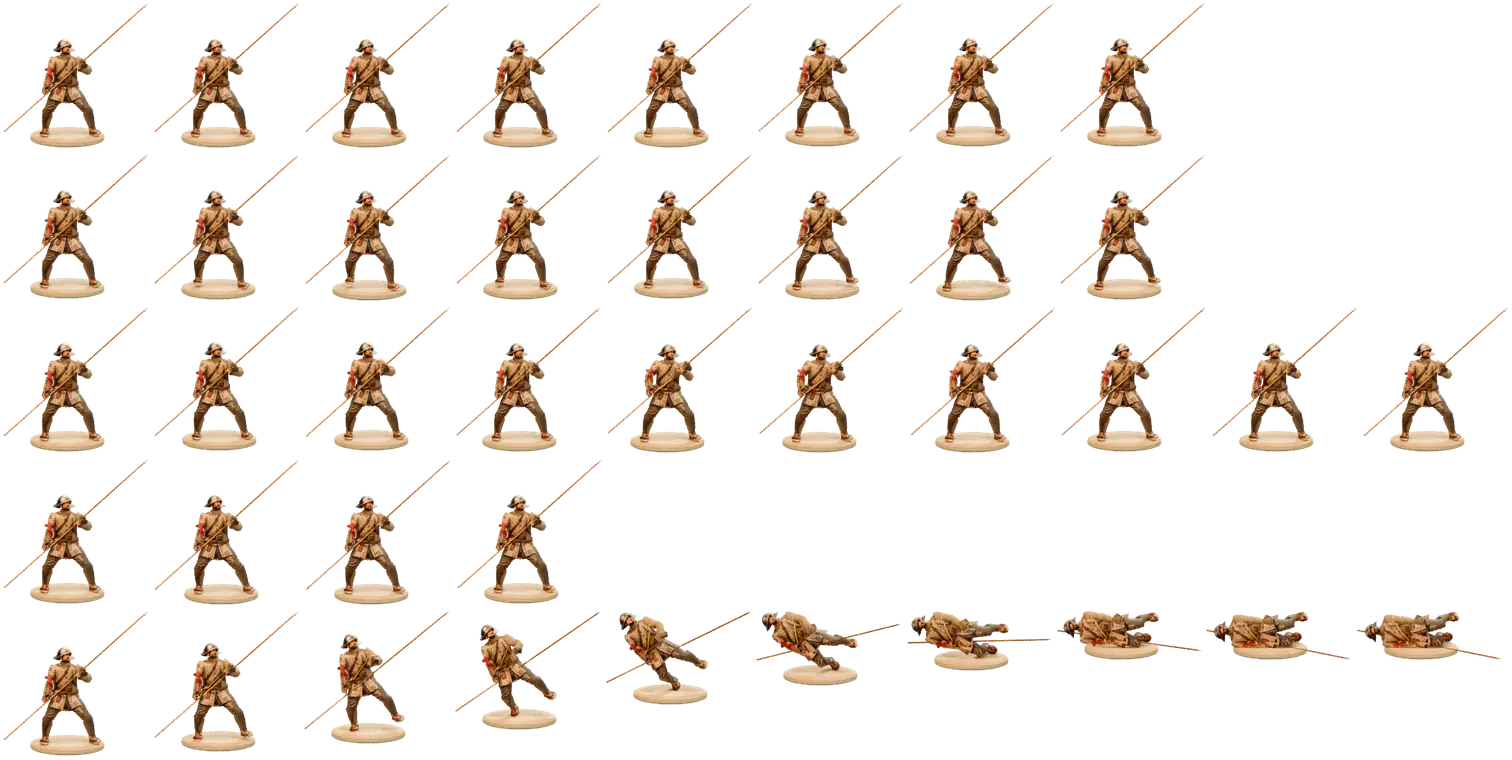
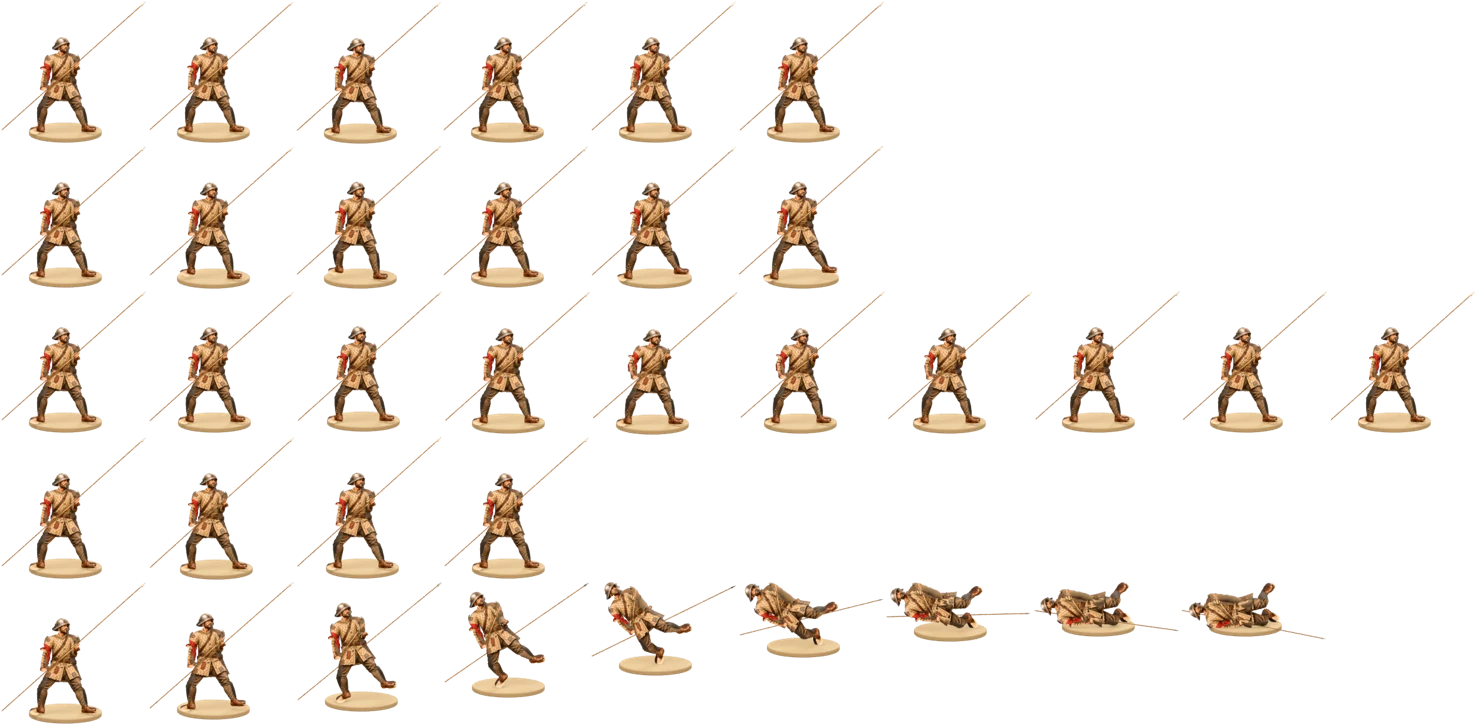
Refine pikeman geometry, painted surfaces and verified GPU handoff

diff --git a/tools/art/anim3d/units/barbarian-pikeman/build.py b/tools/art/anim3d/units/barbarian-pikeman/build.py
@@ -52,22 +52,31 @@ for v in body.data.vertices:kd.insert(v.co,v.index)
 kd.balance()
 def weights(v):
  _,i,_=kd.find(v);return {body.vertex_groups[g.group].name:g.weight for g in body.data.vertices[i].groups if body.vertex_groups[g.group].name in rig.data.bones}
-def shell(name,pred,material,inflation):
+def shell(name,pred,material,inflation,regions):
  # Original base topology, shape keys evaluated, no subdivision to corrupt weights.
  disabled=[]
  for md in body.modifiers:
   if md.type!='ARMATURE' and md.show_viewport:disabled.append(md);md.show_viewport=False
  bpy.context.view_layer.update();ev=body.evaluated_get(bpy.context.evaluated_depsgraph_get());me=ev.to_mesh()
  body_group=body.vertex_groups['body'].index
- real={v.index for v in body.data.vertices if any(g.group==body_group and g.weight>.5 for g in v.groups)}
+ real={v.index for v in body.data.vertices if any(g.group==body_group and g.weight>.5 for g in v.groups) and sum(g.weight for g in v.groups if body.vertex_groups[g.group].name in regions)>.55}
  fs=[p for p in me.polygons if all(i in real and pred(me.vertices[i].co) for i in p.vertices)];ids=sorted({i for p in fs for i in p.vertices});mp={v:i for i,v in enumerate(ids)}
  vs=[me.vertices[i].co+me.vertices[i].normal*(inflation+.004*math.sin(me.vertices[i].co.z*90)) for i in ids]
  o=mesh(name,vs,[[mp[i] for i in p.vertices] for p in fs],material);ev.to_mesh_clear()
  for md in disabled:md.show_viewport=True
- weighted(o,weights);finish(o);sub=o.modifiers.new('Tailored smoothing','SUBSURF');sub.levels=1;sub.render_levels=1;return o
-shell('padded-sleeves',lambda v:1.03<v.z<1.43 and abs(v.x)>.16,cloth,.026)
-shell('wrinkled-trousers',lambda v:.08<v.z<.98 and abs(v.x)<.30,pants,.028)
-shell('leather-boots',lambda v:v.z<.19,leather,.025)
+ weighted(o,weights)
+ # Exact inherited anatomy weights: nearest-point lookup after inflation can
+ # attach a sleeve vertex to an adjacent finger and stretch it into a spike.
+ o.vertex_groups.clear()
+ for dest,src in enumerate(ids):
+  for group in body.data.vertices[src].groups:
+   name=body.vertex_groups[group.group].name
+   if name in rig.data.bones:
+    vg=o.vertex_groups.get(name) or o.vertex_groups.new(name=name);vg.add([dest],group.weight,'REPLACE')
+ finish(o);sub=o.modifiers.new('Tailored smoothing','SUBSURF');sub.levels=1;sub.render_levels=1;return o
+shell('padded-sleeves',lambda v:1.03<v.z<1.43 and abs(v.x)>.16,cloth,.026,{n for n in rig.data.bones.keys() if n.startswith(('upperarm','lowerarm'))})
+shell('wrinkled-trousers',lambda v:.08<v.z<.98 and abs(v.x)<.30,pants,.028,{n for n in rig.data.bones.keys() if n.startswith(('pelvis','thigh','calf','foot','ball'))})
+shell('leather-boots',lambda v:v.z<.19,leather,.025,{n for n in rig.data.bones.keys() if n.startswith(('calf','foot','ball'))})
 # Fitted coat with real quilt displacement, open neckline and flared skirt.
 vs=[];fs=[];N=64;J=32
 for j in range(J+1):
@@ -129,21 +138,22 @@ for i in range(29):
 # Red tie and hanging ends on right upper arm, built in posed space below.
 # Rest pose: wide braced feet and two distinct grips on a single straight shaft.
 def aim(name,direction):
- p=rig.pose.bones[name];q=p.bone.matrix_local.to_quaternion();q=(q@Vector((0,1,0))).rotation_difference(Vector(direction).normalized())@q;m=q.to_matrix().to_4x4();m.translation=p.head;p.matrix=m;bpy.context.view_layer.update()
+ p=rig.pose.bones[name];q=p.bone.matrix_local.to_quaternion();q=(q @ Vector((0,1,0))).rotation_difference(Vector(direction).normalized()) @ q;m=q.to_matrix().to_4x4();m.translation=p.head;p.matrix=m;bpy.context.view_layer.update()
 def limb(up,lo,target,pole):
  a=rig.pose.bones[up].head.copy();t=Vector(target);axis=t-a;l1=rig.data.bones[up].length;l2=rig.data.bones[lo].length;d=min(axis.length,l1+l2-.0001);axis.normalize();along=(l1*l1-l2*l2+d*d)/(2*d);h=max(0,l1*l1-along*along)**.5;side=Vector(pole)-a;side=(side-axis*side.dot(axis)).normalized();elbow=a+axis*along+side*h;aim(up,elbow-a);aim(lo,t-elbow)
 rig.location=(-.17,0,.10)
 p=rig.pose.bones['pelvis'];m=p.matrix.copy();m.translation.z-=.14;p.matrix=m;bpy.context.view_layer.update()
 for side,x,y in [('r',-.36,-.01),('l',.35,.02)]:
- limb('thigh_'+side,'calf_'+side,(x,y,.08),((-.40 if side=='r' else .23),-.30,.48));aim('foot_'+side,((-.065 if side=='r' else .16),-.16,-.065))
-limb('upperarm_r','lowerarm_r',(-.34,-.22,.72),(-.48,-.16,1.05))
+ limb('thigh_'+side,'calf_'+side,(x,y,.08),((-.40 if side=='r' else .23),-.30,.48));aim('foot_'+side,((-.16 if side=='r' else .19),-.10,-.065))
+p=rig.pose.bones['clavicle_r'];m=p.matrix.copy();m.translation.x-=.04;m.translation.z-=.01;p.matrix=m;bpy.context.view_layer.update()
+limb('upperarm_r','lowerarm_r',(-.34,-.22,.72),(-.56,-.16,1.00))
 limb('upperarm_l','lowerarm_l',(.165,-.24,1.085),(.14,-.18,.85))
 for side in ['r','l']:
  aim('hand_'+side,(.06,-.01,.065))
  for finger in ['index','middle','ring','pinky']:
   for k in [1,2,3]:
    p=rig.pose.bones[f'{finger}_{k:02}_{side}'];p.rotation_mode='XYZ';p.rotation_euler.x=1.25
-p=rig.pose.bones['head'];m=p.matrix.copy();pos=p.head.copy();m=Matrix.Rotation(.65,4,'Z')@m;m.translation=pos;p.matrix=m;bpy.context.view_layer.update()
+p=rig.pose.bones['head'];m=p.matrix.copy();pos=p.head.copy();m=Matrix.Rotation(.65,4,'Z') @ m;m.translation=pos;p.matrix=m;bpy.context.view_layer.update()
 # Pike endpoints match painting in screen projection. It is a uniform 3D cylinder.
 start=Vector((-1.17,-.26,.20));end=Vector((1.17,-.26,2.34))
 grip=Vector((-.24,-.26,1.06))
@@ -152,7 +162,7 @@ shaft=curve('ash-pike-shaft',[start,end-(end-start).normalized()*.085],.0055,woo
 d=(end-start).normalized();a=end-d*.10;u=Vector((0,1,0))*.011;v=d.cross(Vector((0,1,0)))*.018
 head=mesh('iron-pike-point',[a+u,a+v,a-u,a-v,end],[(0,1,4),(1,2,4),(2,3,4),(3,0,4),(3,2,1,0)],steel,False);finish(head,0,.001);head.parent=pike;head.matrix_parent_inverse=pike.matrix_world.inverted()
 # Red arm tie at the visible upper sleeve, with substantial ribbon surfaces.
-center=rig.matrix_world@rig.pose.bones['upperarm_r'].head;center+=Vector((-.055,-.045,-.13))
+center=rig.matrix_world @ rig.pose.bones['upperarm_r'].head;center+=Vector((-.055,-.045,-.13))
 pts=[center+Vector((.077*math.cos(a),.065*math.sin(a),0)) for a in [i*2*math.pi/40 for i in range(41)]]
 attach(curve('red-arm-band',pts,.016,red),'upperarm_r')
 for off in [-.03,.02]:

diff --git a/tools/art/anim3d/units/barbarian-pikeman/animate.py b/tools/art/anim3d/units/barbarian-pikeman/animate.py
@@ -5,13 +5,13 @@ from mathutils import Vector,Matrix,Quaternion
 R=Path(os.environ['ANIM_ROOT']);M=R/'masters/barbarian-pikeman';source=M/'barbarian-pikeman.blend'
 CLIPS={'idle':(8,10,True),'move':(8,12,True),'attack':(10,14,False),'hit':(4,12,False),'death':(10,10,False)}
 def aim(rig,name,direction):
- p=rig.pose.bones[name];q=p.bone.matrix_local.to_quaternion();q=(q@Vector((0,1,0))).rotation_difference(Vector(direction).normalized())@q;m=q.to_matrix().to_4x4();m.translation=p.head;p.matrix=m;bpy.context.view_layer.update()
+ p=rig.pose.bones[name];q=p.bone.matrix_local.to_quaternion();q=(q @ Vector((0,1,0))).rotation_difference(Vector(direction).normalized()) @ q;m=q.to_matrix().to_4x4();m.translation=p.head;p.matrix=m;bpy.context.view_layer.update()
 def limb(rig,up,lo,target,pole):
  a=rig.pose.bones[up].head.copy();t=Vector(target);axis=t-a;l1=rig.data.bones[up].length;l2=rig.data.bones[lo].length;d=min(axis.length,l1+l2-.0001);axis.normalize();along=(l1*l1-l2*l2+d*d)/(2*d);h=max(0,l1*l1-along*along)**.5;side=Vector(pole)-a;side=(side-axis*side.dot(axis)).normalized();elbow=a+axis*along+side*h;aim(rig,up,elbow-a);aim(rig,lo,t-elbow)
 for clip,(count,fps,loop) in CLIPS.items():
  if os.environ.get('CLIP') and clip not in os.environ['CLIP'].split(','):continue
  bpy.ops.wm.open_mainfile(filepath=str(source));sc=bpy.context.scene;rig=bpy.data.objects['RIG-pikeman'];pike=bpy.data.objects['CTRL-pike'];basis=json.loads(rig['rest_basis']);rpos=rig.location.copy();ppos=pike.location.copy();sc.render.fps=fps;sc.frame_start=1;sc.frame_end=count
- hand_local={s:pike.matrix_world.inverted()@(rig.matrix_world@rig.pose.bones['hand_'+s].head) for s in ['r','l']}
+ hand_local={s:pike.matrix_world.inverted() @ (rig.matrix_world @ rig.pose.bones['hand_'+s].head) for s in ['r','l']}
  disabled=[]
  for o in sc.objects:
   for md in o.modifiers:
@@ -38,16 +38,16 @@ for clip,(count,fps,loop) in CLIPS.items():
    bpy.context.view_layer.update()
    # Floor constraint for the actual pike endpoints, never scale-to-zero hiding.
    inv=Matrix.Translation(ppos).inverted();points=[Vector((-1.17,-.26,.20)),Vector((1.17,-.26,2.34))]
-   lowest=min((pike.matrix_world@(inv@v)).z for v in points)
+   lowest=min((pike.matrix_world @ (inv @ v)).z for v in points)
    if lowest<.12:pike.location.z+=.12-lowest
   bpy.context.view_layer.update()
   if clip!='death':
    for side,x,y,phase in [('r',-.36,-.01,0),('l',.35,.02,math.pi)]:
     step=math.sin(t*math.tau+phase) if clip=='move' else 0
     target=(x+.055*step-(rig.location.x-rpos.x),y+.09*step-(rig.location.y-rpos.y),.08+(.07*max(0,step) if clip=='move' else 0)-(rig.location.z-rpos.z))
-    limb(rig,'thigh_'+side,'calf_'+side,target,((-.40 if side=='r' else .23),-.30,.48));aim(rig,'foot_'+side,((-.065 if side=='r' else .16),-.16,-.065))
+    limb(rig,'thigh_'+side,'calf_'+side,target,((-.40 if side=='r' else .23),-.30,.48));aim(rig,'foot_'+side,((-.16 if side=='r' else .19),-.10,-.065))
    for side in ['r','l']:
-    target=rig.matrix_world.inverted()@(pike.matrix_world@hand_local[side]);pole=(-.48,-.16,1.05) if side=='r' else (.14,-.18,.85)
+    target=rig.matrix_world.inverted() @ (pike.matrix_world @ hand_local[side]);pole=(-.56,-.16,1.00) if side=='r' else (.14,-.18,.85)
     limb(rig,'upperarm_'+side,'lowerarm_'+side,target,pole);aim(rig,'hand_'+side,(.06,-.01,.065))
   else:
    # Release both hands after impact starts; articulated limbs collapse with the body.
@@ -56,13 +56,13 @@ for clip,(count,fps,loop) in CLIPS.items():
     p=rig.pose.bones['calf_'+side];p.rotation_mode='XYZ';p.rotation_euler.x+=.65*ease
     for bn,direction in [('upperarm_'+side,((.05 if side=='l' else -.05),-.05,-1)),('lowerarm_'+side,((-.20 if side=='l' else .20),-.15,-1))]:
      p=rig.pose.bones[bn];p.rotation_mode='QUATERNION';before=p.rotation_quaternion.copy();aim(rig,bn,direction);target=p.rotation_quaternion.copy();p.rotation_quaternion=before.slerp(target,ease);bpy.context.view_layer.update()
-   bpy.context.view_layer.update();body=bpy.data.objects['GEO-MPFB-anatomy'];ev=body.evaluated_get(bpy.context.evaluated_depsgraph_get());me=ev.to_mesh();low=min((ev.matrix_world@v.co).z for v in me.vertices);ev.to_mesh_clear();rig.location.z+=max(0,.10-low)
+   bpy.context.view_layer.update();body=bpy.data.objects['GEO-MPFB-anatomy'];ev=body.evaluated_get(bpy.context.evaluated_depsgraph_get());me=ev.to_mesh();low=min((ev.matrix_world @ v.co).z for v in me.vertices);ev.to_mesh_clear();rig.location.z+=max(0,.10-low)
   bpy.context.view_layer.update()
   for o in [rig,pike]:
    o.keyframe_insert('location',frame=i+1);o.keyframe_insert('rotation_euler',frame=i+1)
   for p in rig.pose.bones:
    p.keyframe_insert('location',frame=i+1);p.keyframe_insert('rotation_quaternion' if p.rotation_mode=='QUATERNION' else 'rotation_euler',frame=i+1);p.keyframe_insert('scale',frame=i+1)
-  samples.append({s:list(rig.matrix_world@rig.pose.bones['hand_'+s].head) for s in ['r','l']})
+  samples.append({s:list(rig.matrix_world @ rig.pose.bones['hand_'+s].head) for s in ['r','l']})
  for md in disabled:md.show_viewport=True
  info={'frames':count,'fps':fps,'loop':loop,'source_master_sha256':hashlib.sha256(source.read_bytes()).hexdigest(),'hand_positions':samples[:count]};sc['clip_info']=json.dumps(info);sc.frame_set(1)
  for o in [rig,pike]:

diff --git a/tools/art/anim3d/units/barbarian-pikeman/render.py b/tools/art/anim3d/units/barbarian-pikeman/render.py
@@ -30,9 +30,9 @@ for stage in stages:
   assert all(min(abs(v) for v in o.scale)>.0001 for o in sc.objects),'Unsafe near-zero scale'
   if clip and clip!='death':
    from mathutils import Vector,Matrix
-   rig=bpy.data.objects['RIG-pikeman'];pike=bpy.data.objects['CTRL-pike'];inv=Matrix.Translation(Vector((-.24,-.26,1.06))).inverted();a=pike.matrix_world@(inv@Vector((-1.17,-.26,.20)));b=pike.matrix_world@(inv@Vector((1.17,-.26,2.34)));axis=(b-a).normalized();distances={}
+   rig=bpy.data.objects['RIG-pikeman'];pike=bpy.data.objects['CTRL-pike'];inv=Matrix.Translation(Vector((-.24,-.26,1.06))).inverted();a=pike.matrix_world @ (inv @ Vector((-1.17,-.26,.20)));b=pike.matrix_world @ (inv @ Vector((1.17,-.26,2.34)));axis=(b-a).normalized();distances={}
    for side in ['r','l']:
-    hand=rig.matrix_world@rig.pose.bones['hand_'+side].head;delta=hand-a;distance=(delta-axis*delta.dot(axis)).length;distances[side]=distance;assert distance<.13,(clip,frame,side,'hand too far from shaft',distance)
+    hand=rig.matrix_world @ rig.pose.bones['hand_'+side].head;delta=hand-a;distance=(delta-axis*delta.dot(axis)).length;distances[side]=distance;assert distance<.13,(clip,frame,side,'hand too far from shaft',distance)
    audit.append({'frame':frame,'wrist_to_shaft':distances})
   sc.render.filepath=str(out/f'{i:02}.png');bpy.ops.render.render(write_still=True)
   if not clip:
@@ -42,6 +42,6 @@ for stage in stages:
  (out/'render.json').write_text(json.dumps(manifest,indent=2));print('RENDER_OK',stage,flush=True)
 
  # Publish complete interim strips immediately after each stage; no Blender subprocess.
- if (M/'renders'/str(resolution)/'c-textured-lit/00.png').exists():
+ if (M/'renders'/str(resolution)/'c-textured-lit/render.json').exists():
   import subprocess
   subprocess.run([str(R/'venv/bin/python'),'tools/art/anim3d/units/barbarian-pikeman/deliver.py','--resolution',str(resolution),'--review-only'],check=True)

diff --git a/tools/art/anim3d/units/barbarian-pikeman/surface.py b/tools/art/anim3d/units/barbarian-pikeman/surface.py
@@ -1,5 +1,7 @@
 """Finish the full-depth geometry before projection, preserving skin weights."""
 import bpy
+from bpy_extras.object_utils import world_to_camera_view
+from mathutils import Vector
 
 
 def finish_surfaces():
@@ -28,3 +30,15 @@ def finish_surfaces():
             mod.show_viewport = visible
         obj['finished_surface'] = True
     bpy.context.view_layer.update()
+    # Fit the solid brim's overwide side while preserving its camera depth and
+    # complete volume. UVs are frozen only after this physical contour change.
+    scene = bpy.context.scene
+    right = scene.camera.matrix_world.to_quaternion() @ Vector((1, 0, 0))
+    for name in ['GEO-kettle-helmet-brim', 'GEO-helmet-rolled-rim']:
+        obj = bpy.data.objects[name]
+        inverse = obj.matrix_world.inverted()
+        for vertex in obj.data.vertices:
+            world = obj.matrix_world @ vertex.co
+            x = 256 * world_to_camera_view(scene, scene.camera, world).x
+            target = 117 + (x - 117) * .45 if x > 117 else 96 + (x - 96) * .8 if x < 96 else x
+            vertex.co = inverse @ (world + right * ((target - x) * scene.camera.data.ortho_scale / 256))

diff --git a/tools/art/anim3d/units/barbarian-pikeman/audit.py b/tools/art/anim3d/units/barbarian-pikeman/audit.py
@@ -13,10 +13,10 @@ for clip,n in [('idle',8),('move',8),('attack',10),('hit',4),('death',10)]:
   for o in sc.objects:
    assert all(math.isfinite(v) for row in o.matrix_world for v in row),o.name
    assert min(abs(v) for v in o.scale)>.0001,o.name
-  inv=Matrix.Translation(Vector((-.24,-.26,1.06))).inverted();a=pike.matrix_world@(inv@Vector((-1.17,-.26,.20)));b=pike.matrix_world@(inv@Vector((1.17,-.26,2.34)));axis=(b-a).normalized()
+  inv=Matrix.Translation(Vector((-.24,-.26,1.06))).inverted();a=pike.matrix_world @ (inv @ Vector((-1.17,-.26,.20)));b=pike.matrix_world @ (inv @ Vector((1.17,-.26,2.34)));axis=(b-a).normalized()
   if clip!='death':
    for side in ['r','l']:
-    delta=rig.matrix_world@rig.pose.bones['hand_'+side].head-a;maxgrip=max(maxgrip,(delta-axis*delta.dot(axis)).length)
+    delta=rig.matrix_world @ rig.pose.bones['hand_'+side].head-a;maxgrip=max(maxgrip,(delta-axis*delta.dot(axis)).length)
   actions.append([list(r) for r in rig.matrix_world])
  assert maxgrip<.13,(clip,'wrist-to-shaft',maxgrip)
  if clip=='death':assert actions[-1]==actions[-2],'death root not held'

diff --git a/tools/art/anim3d/units/barbarian-pikeman/check_scene.py b/tools/art/anim3d/units/barbarian-pikeman/check_scene.py
@@ -27,7 +27,7 @@ for obj in scene.objects:
         assert obj.data.uv_layers.get('PaintingCamera'), obj.name
         assert all(slot.material.node_tree.nodes.get('Camera-only painted illumination')
                    for slot in obj.material_slots), obj.name
-if os.environ.get('CYCLES_DEVICE') == 'GPU':
+if os.environ.get('CHECK_GPU') == '1' or os.environ.get('CYCLES_DEVICE') == 'GPU':
     prefs = bpy.context.preferences.addons['cycles'].preferences
     prefs.compute_device_type = 'METAL'
     prefs.get_devices()

diff --git a/tools/art/anim3d/units/barbarian-pikeman/REVIEW.md b/tools/art/anim3d/units/barbarian-pikeman/REVIEW.md
@@ -1,41 +1,63 @@
-# Barbarian pikeman, round 1
+# Barbarian pikeman, round 2
 
-Status: candidate, **not an art pass**. The saved model is true articulated MPFB
-anatomy with original kit; there are no image planes or relief substitutes.
+Status: **candidate, not an art pass**. No PASS marker. True articulated MPFB
+anatomy, original full-depth kit and frozen surface UVs; no billboard or relief
+substitute. Prior round evidence is preserved outside git in
+`masters/barbarian-pikeman/round1-preserved`.
 
-At 256 px, the long diagonal pike, figure height, braced silhouette, tan quilted
-coat, red arm tie and kettle helmet are recognizable beside the painting. Frozen
-camera UVs retain much of the painting's cloth detail. The render is still visibly
-weaker: the front elbow/hand is bulky, face/beard is soft, the coat surface loses
-quilt depth and the boot silhouettes do not match. The base top is warm cream but
-its side is too dark/rough. A fixed RGB foreground grade improves warmth without
-per-frame color shifts. A sample of the base top is #E3C8A6; the same patch in the
-painting is more golden, #F2C28D. The shared material target remains #E9CFA0.
+At 256 px, the coat brushwork is crisper, the forward elbow/fist are much closer
+to the reference, the oversized kettle brim is reduced, knees/boots fit better,
+and the pike is thin and continuously brown. Fitted garments now inherit exact
+anatomical vertex weights; this removes the sleeve spikes caused by copying
+hands into clothing and assigning nearby finger weights. Static modifiers and
+macro shapes are finished before camera projection. Camera-only painted pigment
+avoids double lighting and source illumination spilling onto other surfaces.
 
-At 64 px, the pike diagonal and tan/red costume read as the same unit class, with
-an overly broad forward arm and less defined footwear. The rest pose is not hard
-to distinguish from the painting, so no external PASS marker is written.
+The cream stone has a smooth bevel, low grain, live contact shading and no
+projected boot marks. It is still too uniformly shaded, with a darker/rounder
+front edge than the painting. The rear forearm/shoulder contour, face and boot
+shapes still differ. At 64 px the buff/red costume, wide stance and long pike
+read as the same unit; it is still distinguishable from the source token.
 
-The animation uses authored skeletal keys and a common two-hand pike control.
-Idle is small breathing/weight motion; move alternates steps; attack anticipates,
-thrusts in depth and recovers; hit recoils; death releases the pike, falls and holds.
-The torso remains stiff in move, and combat foot contact and the death landing need
-closer review at GPU quality. The arm ribbons are weighted, not cloth simulated.
-Unseen linen uses an existing generated painted fill; hidden skin, leather and
-metal use procedural materials and need richer paint in a subsequent round.
+All five clip strips were inspected. Idle is subtle, move remains stiff, attack
+is a short two-handed thrust, and hit recovers. Death releases the pike and holds
+its last two frames, but its raised leg and fall remain too posed. Revealed cloth
+and skin are simpler than the source-facing paint. The rig audit checks a
+stationary base, finite transforms, nonzero scales, 53 bones and wrist/shaft
+proximity; it is not a complete grip, cloth or floor collision solver.
 
-External evidence: `~/LegatumRuns/anim-pilot/review/3d-v2/barbarian-pikeman-*`.
-Editable sources, six AO/Pointiness bakes and raw/graded CPU 256 px frames are in
-`~/LegatumRuns/anim-pilot/masters/barbarian-pikeman/`.
+Current delivery is explicitly **Cycles CPU12 / 256px preview**:
 
-The host must run, from the repository root:
+- Forty samples: idle 8, move 8, attack 10, hit 4, death 10.
+- Trimmed 160px logical cells, **158,564 bytes at WebP quality 90**, lossless alpha.
+- Decoded alpha/offsets, bounds, motion, source hashes and held-death source/RGB
+  equality pass. Duplicate frames share a rectangle without dropping samples.
+- Six fresh 256px AO/Pointiness bakes and saved editable master/clip blends.
+- Round-2 MP4: H.264, yuv420p, 1600 × 348, 240 frames, eight seconds; all five
+  decoded clips side by side on cream, at 2x logical frame size.
+- Scene/rig checks, all 15 Python files, both shell scripts and whitespace checks pass.
+- The GPU receipt correctly rejects this CPU delivery; the missing-input test
+  records the failed preflight and leaves no success receipt.
+- The actual GPU entry point reaches device discovery and correctly fails with
+  `Metal GPU unavailable; no CPU fallback` in this sandbox. GPU rendering is
+  unverified here. Device discovery uses a CPU slot; actual renders use the GPU gate.
+- Repository hygiene and public-claims pass on the committed changes. Initial
+  hygiene false positives on matrix operators were fixed with spacing. The art
+  gate is blocked by Chromium `bootstrap_check_in ... Permission denied (1100)`
+  in the sandbox; no distinctness result or browser art approval is claimed.
+
+The runner reassigned lane-17 mid-round after WIP commit `57e4b781`. Continue on
+`astra/unit-anim-3d-barbarian-pikeman` in `.worktrees/barbarian-pikeman-round2`, not
+in the active artillery checkout. The single executable host handoff is:
 
 ```sh
-ROUND=1 tools/art/anim3d/units/barbarian-pikeman/gpu.sh
+ROUND=2 tools/art/anim3d/units/barbarian-pikeman/gpu.sh
 ```
 
-That performs the independent rig audit, every GPU render stage, real 512 px
-masters and their 256 px derivatives, trimmed 160 px atlas, decoded validation,
-review sheets/animated WebPs and an eight-second H.264/yuv420p MP4. The 512 px
-render and Metal execution are pending the host pass; CPU previews are not labeled
-as GPU results. A successful GPU script is still subject to the visual art bar.
+It checks the actual Metal device, regenerates all clips, audits, renders every
+stage at GPU64/512, retains 512px masters and 256px derivatives, packs/validates,
+and writes the round MP4. Its retained log and failed-stage status distinguish
+an interrupted run from a completed one. A fresh success receipt requires GPU
+provenance, matching master hashes, every 512/256 frame and a probed movie.
+Final GPU rendering and visual acceptance remain outstanding; CPU previews do
+not manufacture 512px masters or establish GPU success.

diff --git a/tools/art/anim3d/PLAYBOOK.md b/tools/art/anim3d/PLAYBOOK.md
@@ -191,3 +191,52 @@ held death and the byte/quality caps. Reviews include painting versus render at
 256 and 64, details, four attack poses, every clip strip, and a half split plus
 50/50 crossfade. No successful validation writes PASS; that requires a separate
 visual judgment that the rest pose is hard to distinguish from the painting.
+
+### Pikeman round 2: finished geometry, garment weights and handoff receipts
+
+Resume from `.worktrees/barbarian-pikeman-round2` on the pikeman branch. The
+runner reassigned lane-17 to artillery during this round after preserving WIP
+`57e4b781`; do not switch that active artillery checkout back. No shared family
+scripts were changed.
+
+`surface.py` freezes static MPFB macro shapes and applies geometry modifiers
+before `projection.py` records UVs, retaining the native armature and skin weights.
+Fitted sleeves/trousers/boots select original anatomical bone regions and inherit
+**exact source vertex weights**. Height-only shell selection copied hands into
+trousers, while nearest-point weights after inflation attached sleeve edges to
+finger bones and produced spikes. Correct source membership before adding detail.
+The forward elbow pole, wrists, knees, feet and rear clavicle now fit the source
+more closely; the animation solver uses those same rest targets. A small solid
+brim contour correction preserves camera depth and bone parenting.
+
+Projection uses finished geometry, a BVH visibility test, facing/source alpha,
+and frozen rest UVs. Camera rays receive 96% painted illumination; other rays
+retain physical materials so the source paint does not become a lamp. Standard/
+None preserves this painted illumination, instead of compressing it through AgX
+again. Existing generated linen fills, thick cloth, straps, buttons, beard,
+product lights and six real AO/Pointiness bakes remain. The slender pike shaft
+uses continuous ash pigment because a subpixel source-axis mismatch made its
+projected colour broken and pale. This exception is not an exact axis-match claim.
+
+The stone is a real stationary disc with a five-segment bevel, low bump and a
+normal-dependent cream/rim pigment, live AO and physical shading. It no longer
+projects the full figure painting; static boot marks must never remain on a base
+when animated feet leave it. The normal-dependent camera pigment opens the stone
+without illuminating the figure. Its front edge still needs visual refinement.
+
+The automatic 17-quantile grade remains fixed across all clips and now records
+rest/reference/master hashes. Final packing refuses mixed render settings and
+stale clip masters; interim review skips stale stages. The 160px reduction uses
+bicubic with lossless alpha, avoiding Lanczos perimeter ringing. Exact duplicate
+frames share a rectangle within their clip row without changing frame counts;
+the validator now requires identical decoded RGB as well as source pixels for
+the final death hold. The split/crossfade sheet includes native 256 and 64px views.
+
+The executable no-argument `units/barbarian-pikeman/gpu.sh` resolves its checkout,
+defaults to round 2 / Cycles Metal64 / 512px, verifies scene/device, rebuilds clips,
+audits, renders all stages, packs, validates and writes the trim-aware eight-second
+round MP4. A retained transcript, failed-stage status and fresh success receipt
+make interrupted passes distinguishable from completion. `check_delivery.py`
+requires actual GPU512 manifests, matching blend hashes, every 512/256 master and
+the probed H.264/yuv420p movie. CPU previews cannot produce that receipt. The host
+GPU pass remains required; technical success never writes the art PASS marker.
